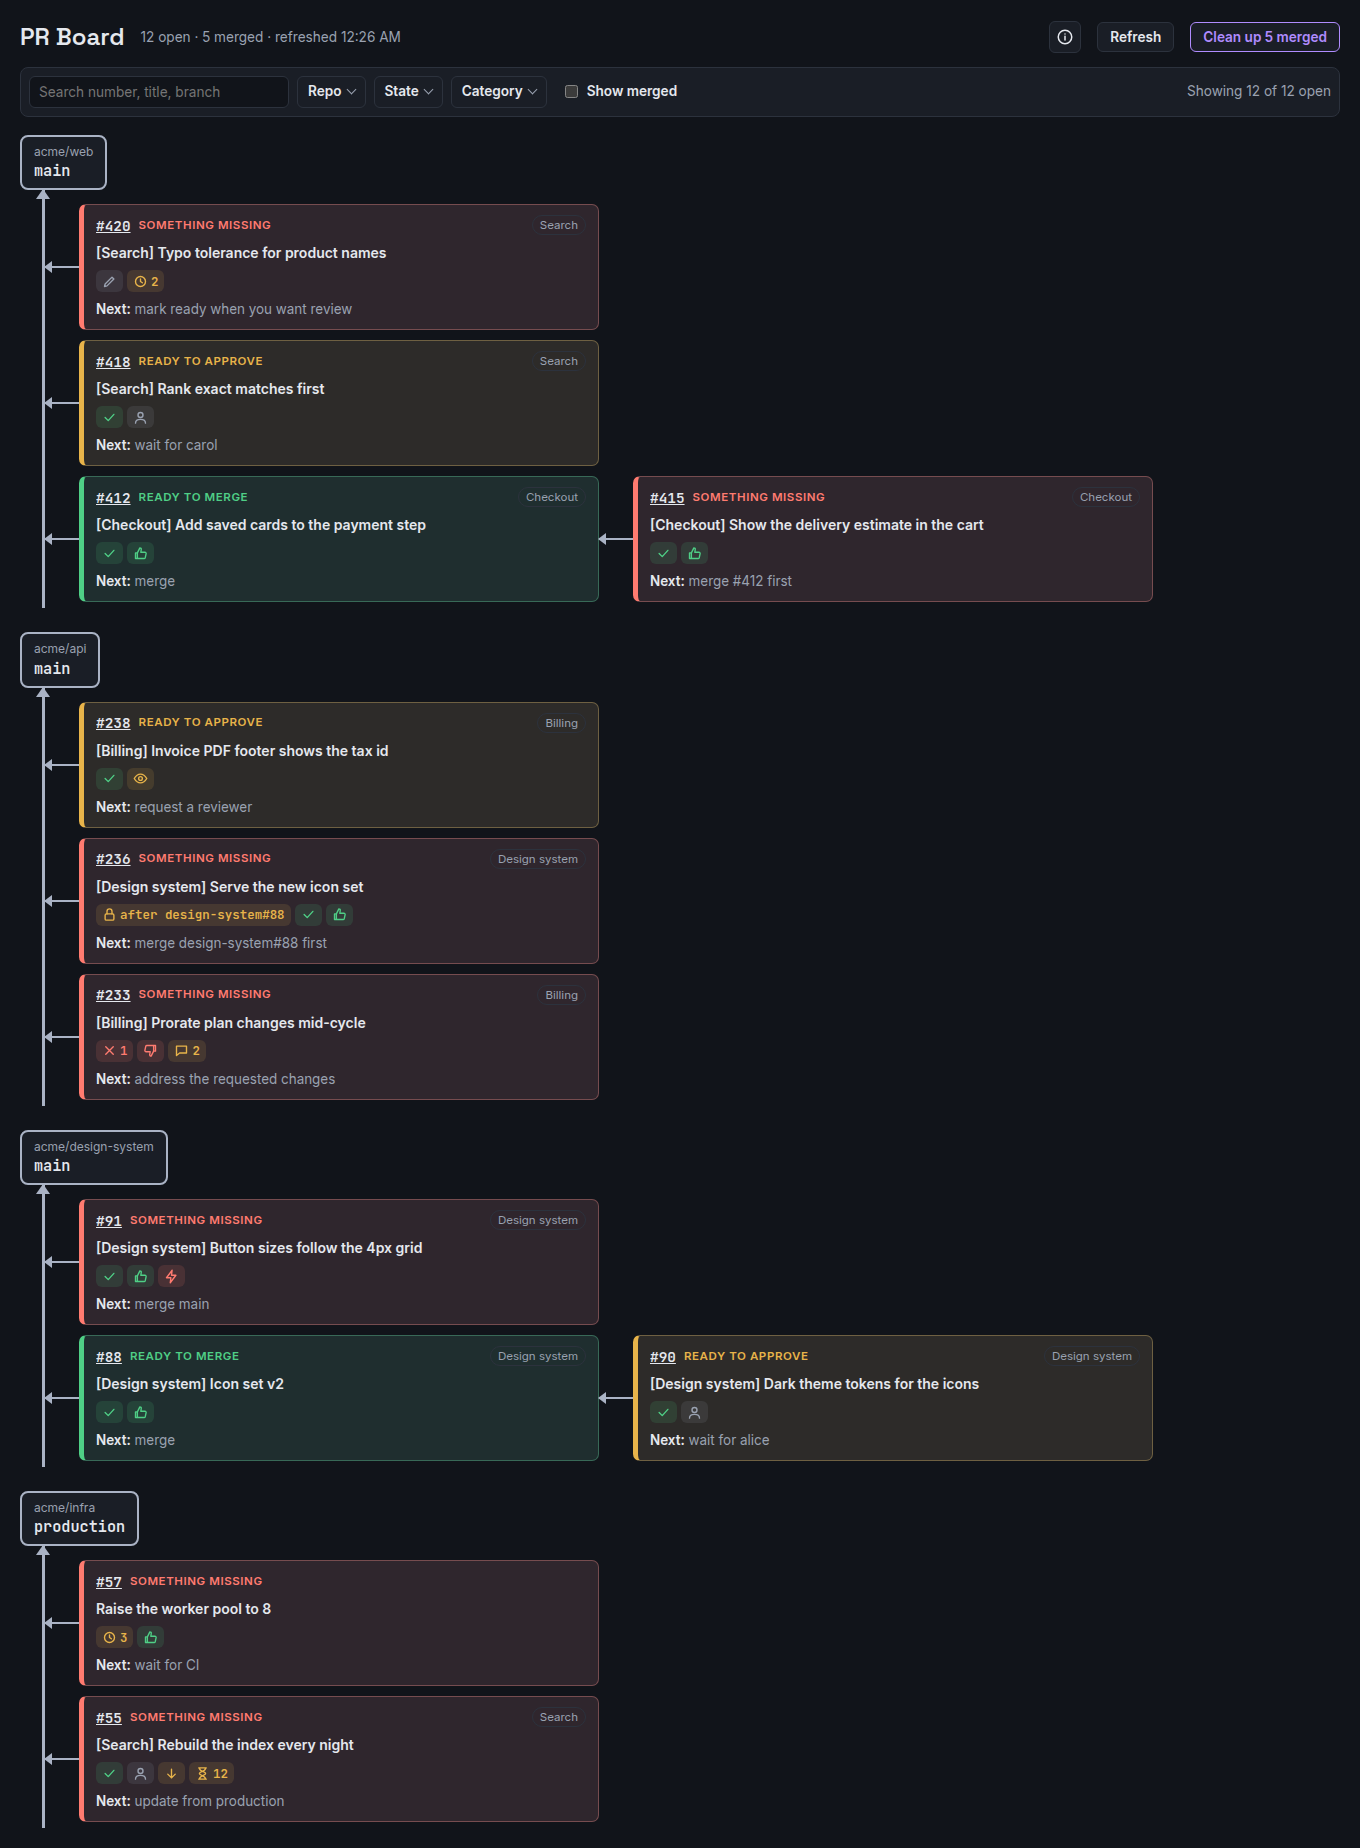
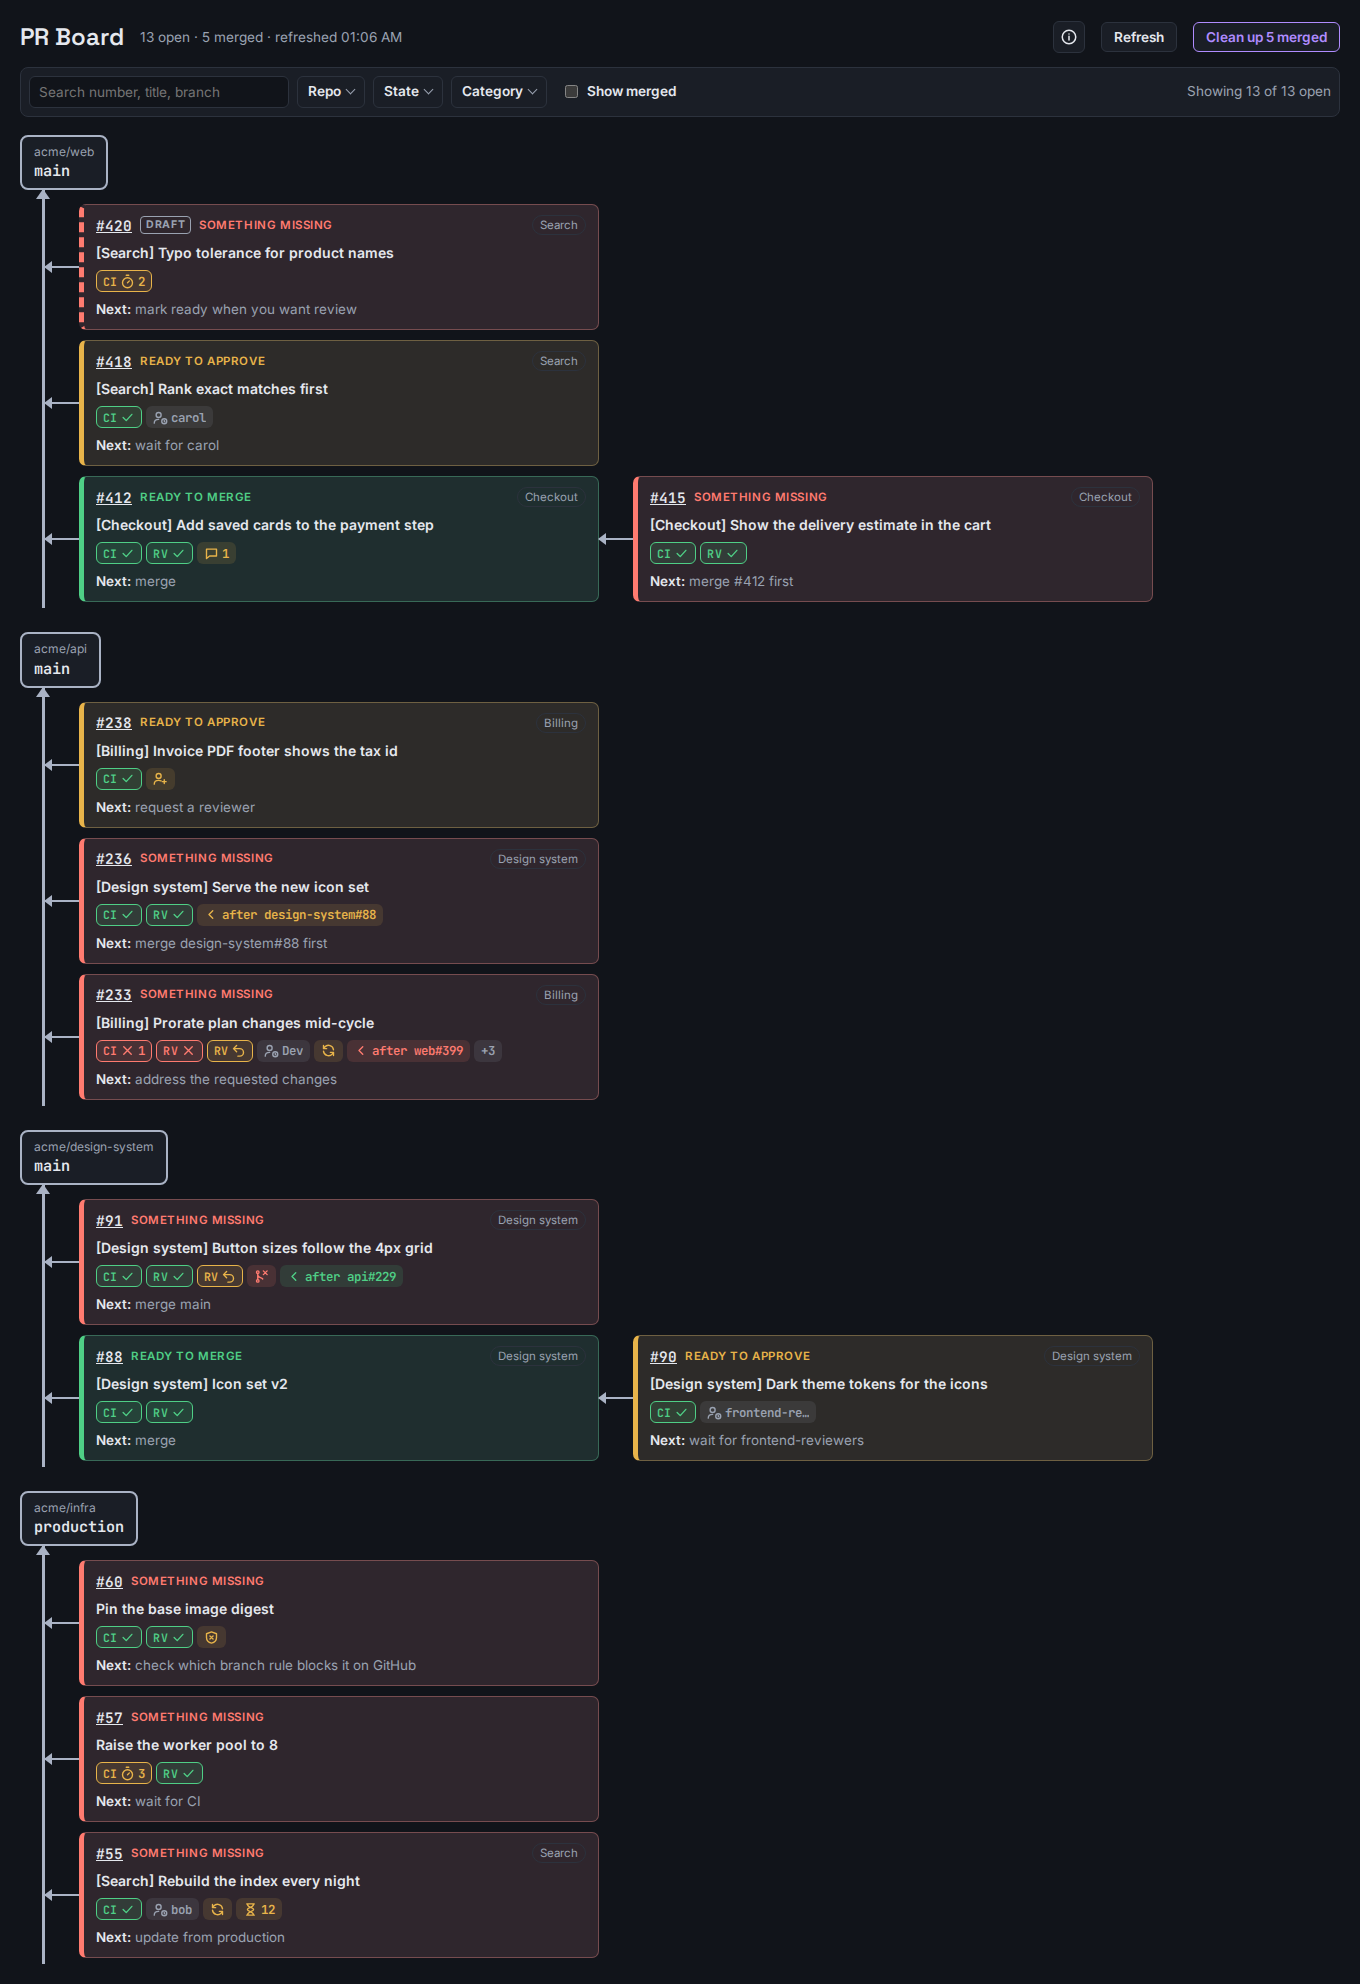
docs: describe the signals in card order; new screenshots
The README lists each signal and its fixed place, and the screenshots
come from the updated demo, where a ready PR now shows a thread.

diff --git a/internal/prboard/demo.go b/internal/prboard/demo.go
@@ -36,7 +36,7 @@ func DemoStore(now time.Time) *Store {
 
 	prs := []PR{
 		// web: #415 must wait for #412
-		pr("web", 412, "[Checkout] Add saved cards to the payment step", nil),
+		pr("web", 412, "[Checkout] Add saved cards to the payment step", func(p *PR) { p.Threads = []Thread{{}} }),
 		pr("web", 415, "[Checkout] Show the delivery estimate in the cart", func(p *PR) {
 			p.Body = "Uses the saved-card lookup.\n\n[required:#412]"
 		}),

diff --git a/README.md b/README.md
@@ -10,7 +10,7 @@ All screenshots come from `pr-board demo`, a fictional organization.
 
 ![The same board in dark mode](docs/screenshots/pr-board-dark.png)
 
-![The legend drawer open on the right, with the colours, icons and links](docs/screenshots/pr-board-legend.png)
+![The legend drawer open on the right, with the colours, the signals in card order and the links](docs/screenshots/pr-board-legend.png)
 
 ![Filtered to one repository and two states: the chain stays whole, the PR that does not match is dimmed](docs/screenshots/pr-board-filtered.png)
 
@@ -23,7 +23,21 @@ All screenshots come from `pr-board demo`, a fictional organization.
 | red | Something missing: any other open PR (draft, CI failing or running, conflicts, behind, changes requested, a branch rule, a required PR still open); the icons say what |
 | purple | Merged, until Clean up removes it |
 
-Every open card has the same height: one header row (number, state, base branch, category), the title on one line (the full title in its tooltip), one signals row that never wraps (icons that do not fit fold into a `+N` chip whose tooltip lists them) and one Next line naming the missing thing. Merged cards are shorter, and all the same height. Icons carry a count where one applies and a tooltip with the detail (which jobs fail, who approved). The info button in the header opens the legend drawer, which lists the colours, every icon and the links.
+Every open card has the same height: one header row (number, a DRAFT tag on drafts, state, base branch, category), the title on one line (the full title in its tooltip), one signals row that never wraps (signals that do not fit fold into a `+N` chip whose tooltip names each hidden one and its detail) and one Next line naming the missing thing. A draft's left border is dashed. Merged cards are shorter, and all the same height. The info button in the header opens the legend drawer, which lists the colours, every signal in card order and the links.
+
+The signals always come in the same order, so each one sits in the same place on every card. Each has a tooltip with the detail (which jobs fail, who approved, who dismissed):
+
+| Signal | Shows |
+|---|---|
+| CI | the letters `CI` with a check (green), a cross and the failing count (red) or a stopwatch and the running count (amber) |
+| Review | the letters `RV` with a check (approved), a cross (changes requested) or an undo arrow (approval dismissed); always right after CI, and both letter chips have a border in their colour so the two read apart |
+| Reviewer | a person with a plus (no reviewer requested), or a person with a clock and the requested login or team, cut at about 12 characters |
+| Conflicts | two branches joining, with a cross |
+| Behind | sync arrows |
+| Branch rule | a shield with a cross: approved and green, but a rule still blocks the merge |
+| Required PRs | a left chevron and `after #412` or `after repo#90` (see below) |
+| Threads | a speech bubble and the count of unresolved threads |
+| Stale | an hourglass and the days since the last update, after 7 |
 
 A solid link joins a PR to the PR whose branch is its base, or to the PR its description requires. The tag in a card's header is its category: the first token in square brackets in the title (`[Checkout]`, `[Design system]`), each bracket split on `|`, skipping the repository's own name (`[web]`), issue keys (`[WEB-123]`) and `required:` lists. No such token, no tag. The title is shown unchanged.
 
@@ -47,7 +61,7 @@ Name the PRs that must merge first anywhere in the description, outside fenced c
 [required:acme/infra#478, acme:design-system#12, api#4021, #4543]
 ```
 
-`owner/repo#N` and `owner:repo#N` are full references, `repo#N` uses the PR's owner, `#N` its repository. The keyword is case-insensitive, several blocks merge, and malformed items are skipped. An open PR in the same repository on the board becomes the lane's previous card (solid link, like a stacked branch; when several qualify, the first one, and the rest stay chips). Every other requirement is a lock chip, "after repo#N", coloured by the target's state, which the collector looks up with one extra GraphQL query when the target is not on the board: green when merged, amber when open, red when closed without merging, amber "not found" when GitHub does not know it. Any requirement that is not merged makes the card red with "merge #N first".
+`owner/repo#N` and `owner:repo#N` are full references, `repo#N` uses the PR's owner, `#N` its repository. The keyword is case-insensitive, several blocks merge, and malformed items are skipped. An open PR in the same repository on the board becomes the lane's previous card (solid link, like a stacked branch; when several qualify, the first one, and the rest stay chips). Every other requirement is a chevron chip, "after repo#N", coloured by the target's state, which the collector looks up with one extra GraphQL query when the target is not on the board: green when merged, amber when open, red when closed without merging, amber "not found" when GitHub does not know it. Any requirement that is not merged makes the card red with "merge #N first".
 
 ## Install
 
@@ -118,4 +132,4 @@ Upgrading from pr-map: on the first run, when `~/.config/pr-board/config.json` o
 go vet ./... && go test ./...
 ```
 
-Tests cover the colour rules, chains, the GraphQL parser on a recorded-shape fixture, collection merges, the Host/Origin/header guard, idle exit, singleton reuse and stale locks, the session loop's exit, loading an old store, moving the old pr-map files, the setup message, the demo board, and the cleanup skip rules on temporary git repositories with a fake `gh`.
+Tests cover the colour rules, the fixed signal order, chains, the GraphQL parser on a recorded-shape fixture, collection merges, the Host/Origin/header guard, idle exit, singleton reuse and stale locks, the session loop's exit, loading an old store, moving the old pr-map files, the setup message, the demo board, and the cleanup skip rules on temporary git repositories with a fake `gh`.
